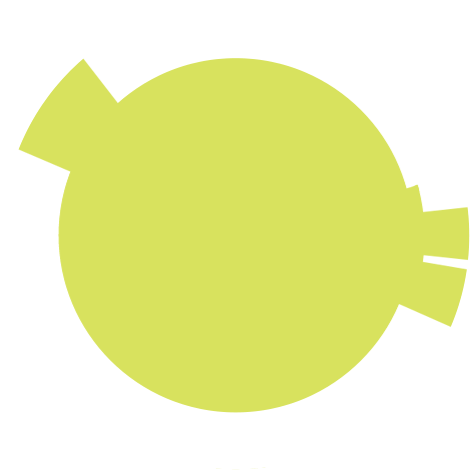
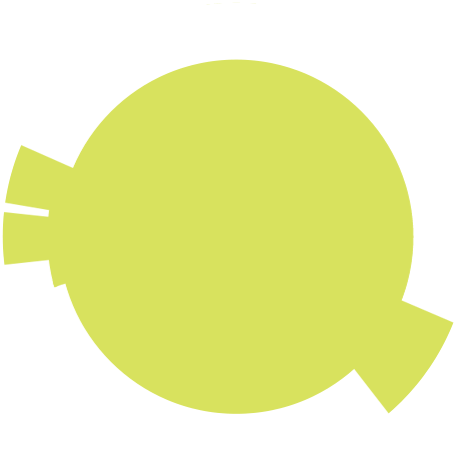
uto-unlock based on wheel3

diff --git a/js/hackweek.js b/js/hackweek.js
@@ -154,18 +154,16 @@ $(function () {
     function project_unlock() {
         window.clearInterval(circle_rotation)
         $('#build_wheel_03').off('click');
-        //alert('unlocked')
-        $('#lock').fadeIn();
-        $('#line_01').fadeIn();
-        $('#line_02').fadeIn();
-        $('#line_03').fadeIn();
-        $('#wheel_01').fadeIn();
-        $('#wheel_02').fadeIn();
-        $('#wheel_03').fadeIn();
-        $('#build_wheel_01').fadeOut();
-        $('#build_wheel_02').fadeOut();
-        $('#build_wheel_03').fadeOut();
-        $('#solid_wheel').fadeOut();
+        $("#build_wheel_01").rotate({ animateTo: 0})
+        $("#build_wheel_02").rotate({ animateTo: 0})
+        $('#lock, #line_01, #line_02, #line_03').fadeIn('slow');
+        //$('#wheel_01').fadeIn();
+        //$('#wheel_02').fadeIn();
+        //$('#wheel_03').fadeIn();
+        //$('#build_wheel_01').fadeOut();
+        //$('#build_wheel_02').fadeOut();
+        //$('#build_wheel_03').fadeOut();
+        //$('#solid_wheel').fadeOut();
     }
 
     /* rotate lib: http://code.google.com/p/jqueryrotate/wiki/Examples */
@@ -179,13 +177,13 @@ $(function () {
         $("#build_wheel_02").rotate(angle2)
         if ( angle%360 == 0 ) angle = 0
         if ( angle2%360 == 0 ) angle2 = 0
-        if (angle == 0 && angle2 == 0 && angle3 == 90) project_unlock()
-    }, 60);
+        if (angle3 == 270) project_unlock()
+    }, 90);
 
     $("#build_wheel_03").click(function (event) {
         angle3 +=90;
-        if ( angle3%360 == 0 ) angle3 = 0
         $(this).rotate({ animateTo: angle3})
+        if ( angle3%360 == 0 ) angle3 = 0
     })
 
 
